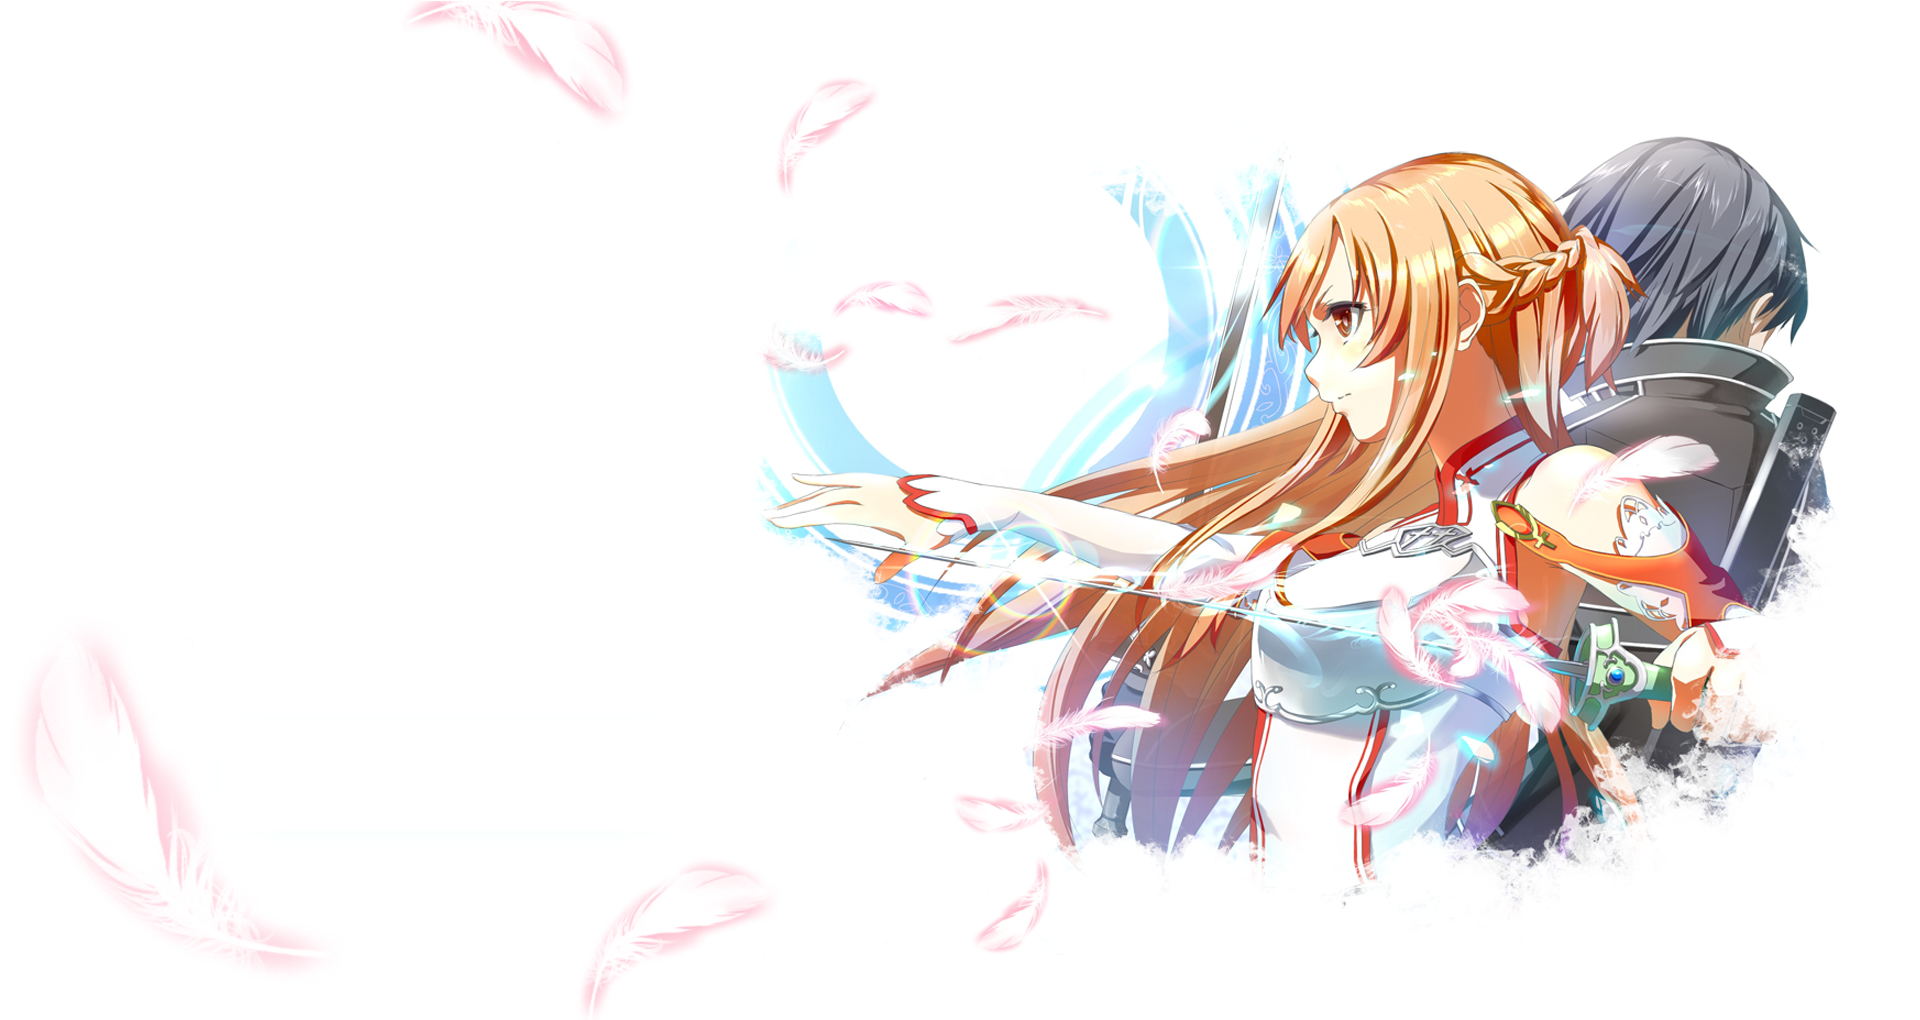
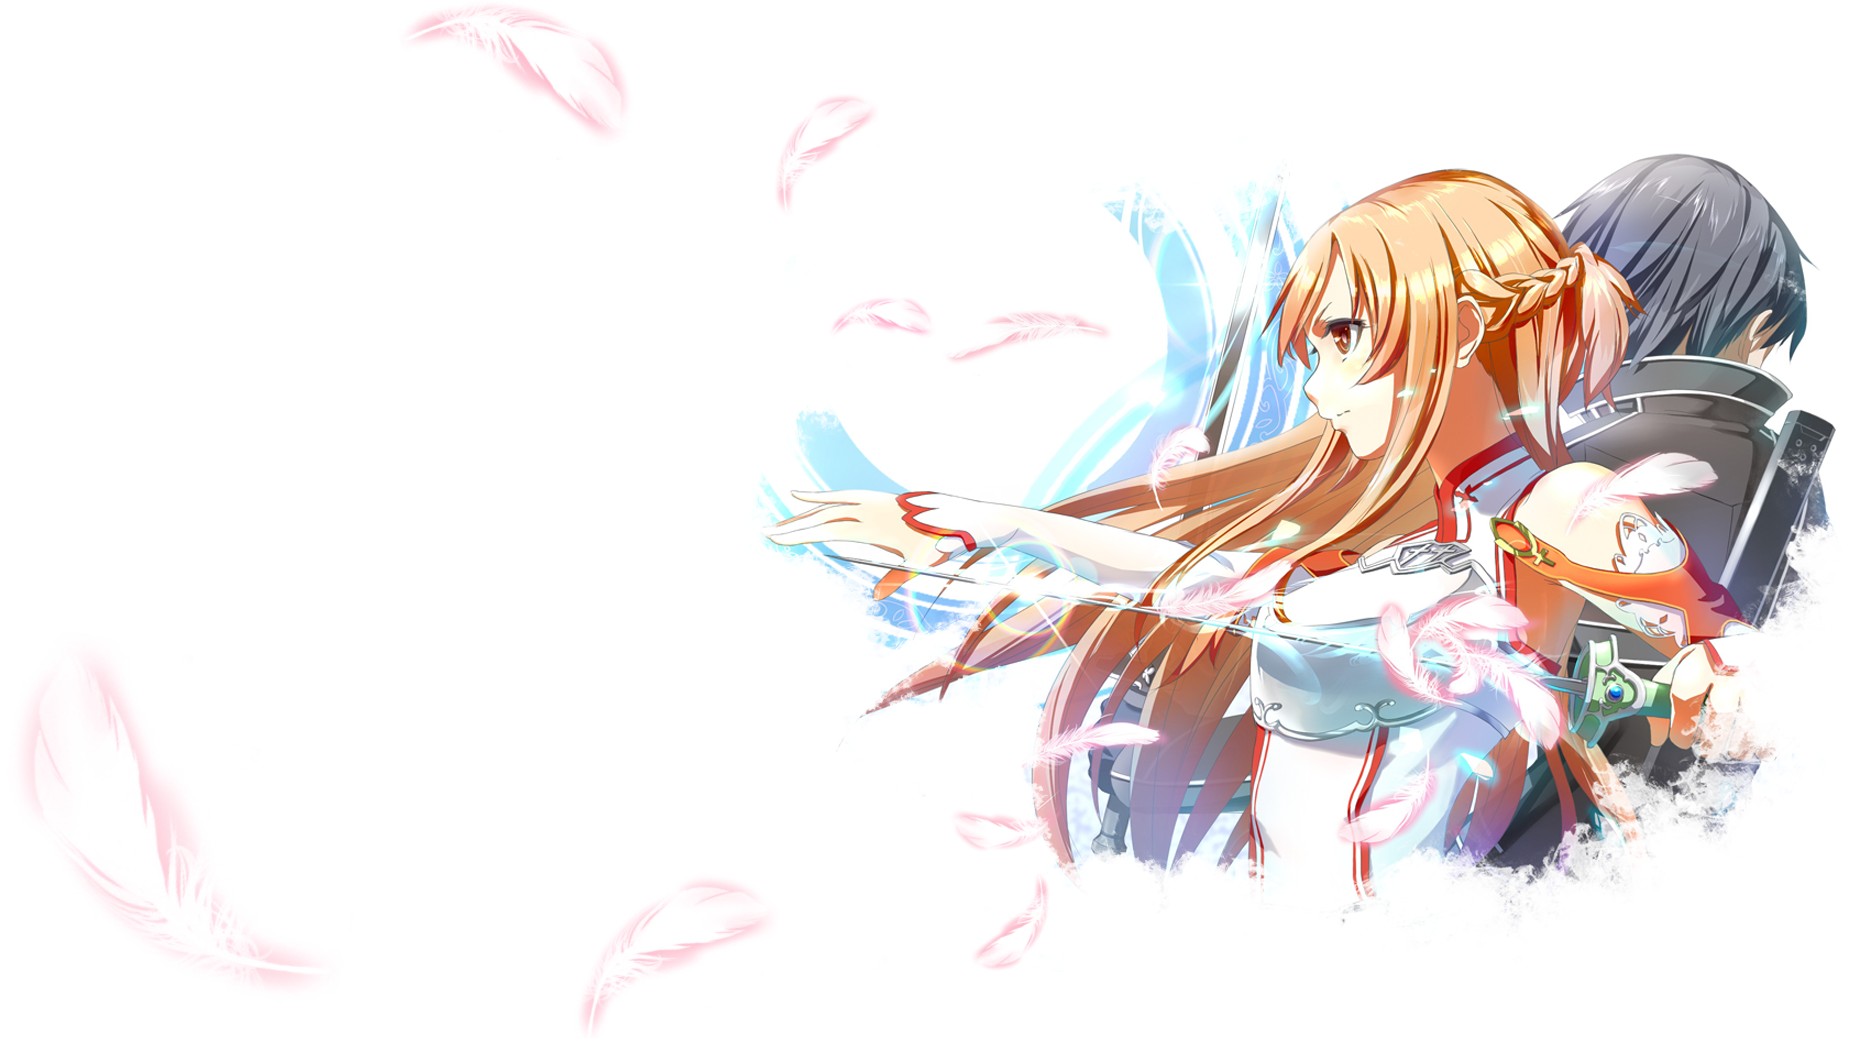
사진 변경

diff --git a/Proj. Alfhr/LoginPage.xaml b/Proj. Alfhr/LoginPage.xaml
@@ -9,7 +9,7 @@
       Title="LoginPage">
 
     <Grid>
-        <Image Margin="0,0,-8,0" Source="Login_Pic.png" Stretch="Fill"/>
+        <Image Source="Login_Pic.png" Stretch="Fill"/>
 
         <Image Margin="73,134.25,581,300.25" Source="Logo.png" Stretch="Fill" Width="300" Height="76.5"/>
         <TextBox x:Name="ID_TB" HorizontalAlignment="Left" Height="24" Margin="123,250,0,0" TextWrapping="Wrap" VerticalAlignment="Top" Width="200" TabIndex="1"/>
